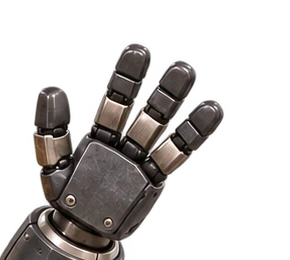
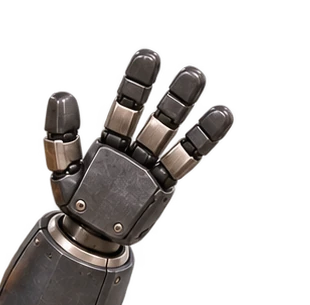
Робот: улыбка по центру под глазами; кисть пересобрана без разрыва

Changed region(s): [[0.0, 0.1538, 0.7759, 1.0], [0.3724, 0.6154, 0.4034, 0.6462]]

diff --git a/index.html b/index.html
@@ -1679,8 +1679,8 @@
         .mobik-fixed { position: fixed; left: 10px; top: 160px; width: 440px; z-index: 60; margin: 0; pointer-events: none; }
         .mobik .mobik-body { display: block; width: 100%; height: auto; }
         .mobik .mobik-hand {
-            position: absolute; left: 69.4%; top: 4.14%; width: 20.03%;
-            transform-origin: 23% 88%;
+            position: absolute; left: 68.72%; top: 3.68%; width: 21.41%;
+            transform-origin: 30% 79%;
         }
         .mobik-eye {
             position: absolute; top: 10.4%; width: 3.8%; height: 5%;
@@ -1691,7 +1691,7 @@
         .mobik-eye-l { left: 44.0%; }
         .mobik-eye-r { left: 52.3%; }
         .mobik-smile {
-            position: absolute; left: 47.6%; top: 18.5%; width: 6.4%; height: 3%;
+            position: absolute; left: 47.0%; top: 17.4%; width: 6.0%; height: 2.8%;
             pointer-events: none;
         }
         @media (prefers-reduced-motion: no-preference) {
@@ -1700,7 +1700,7 @@
         }
         @keyframes mobik-wave {
             0%, 100% { transform: rotate(0deg); }
-            50% { transform: rotate(-13deg); }
+            50% { transform: rotate(-11deg); }
         }
         @keyframes mobik-blink {
             0%, 92%, 100% { transform: scaleY(0); }
